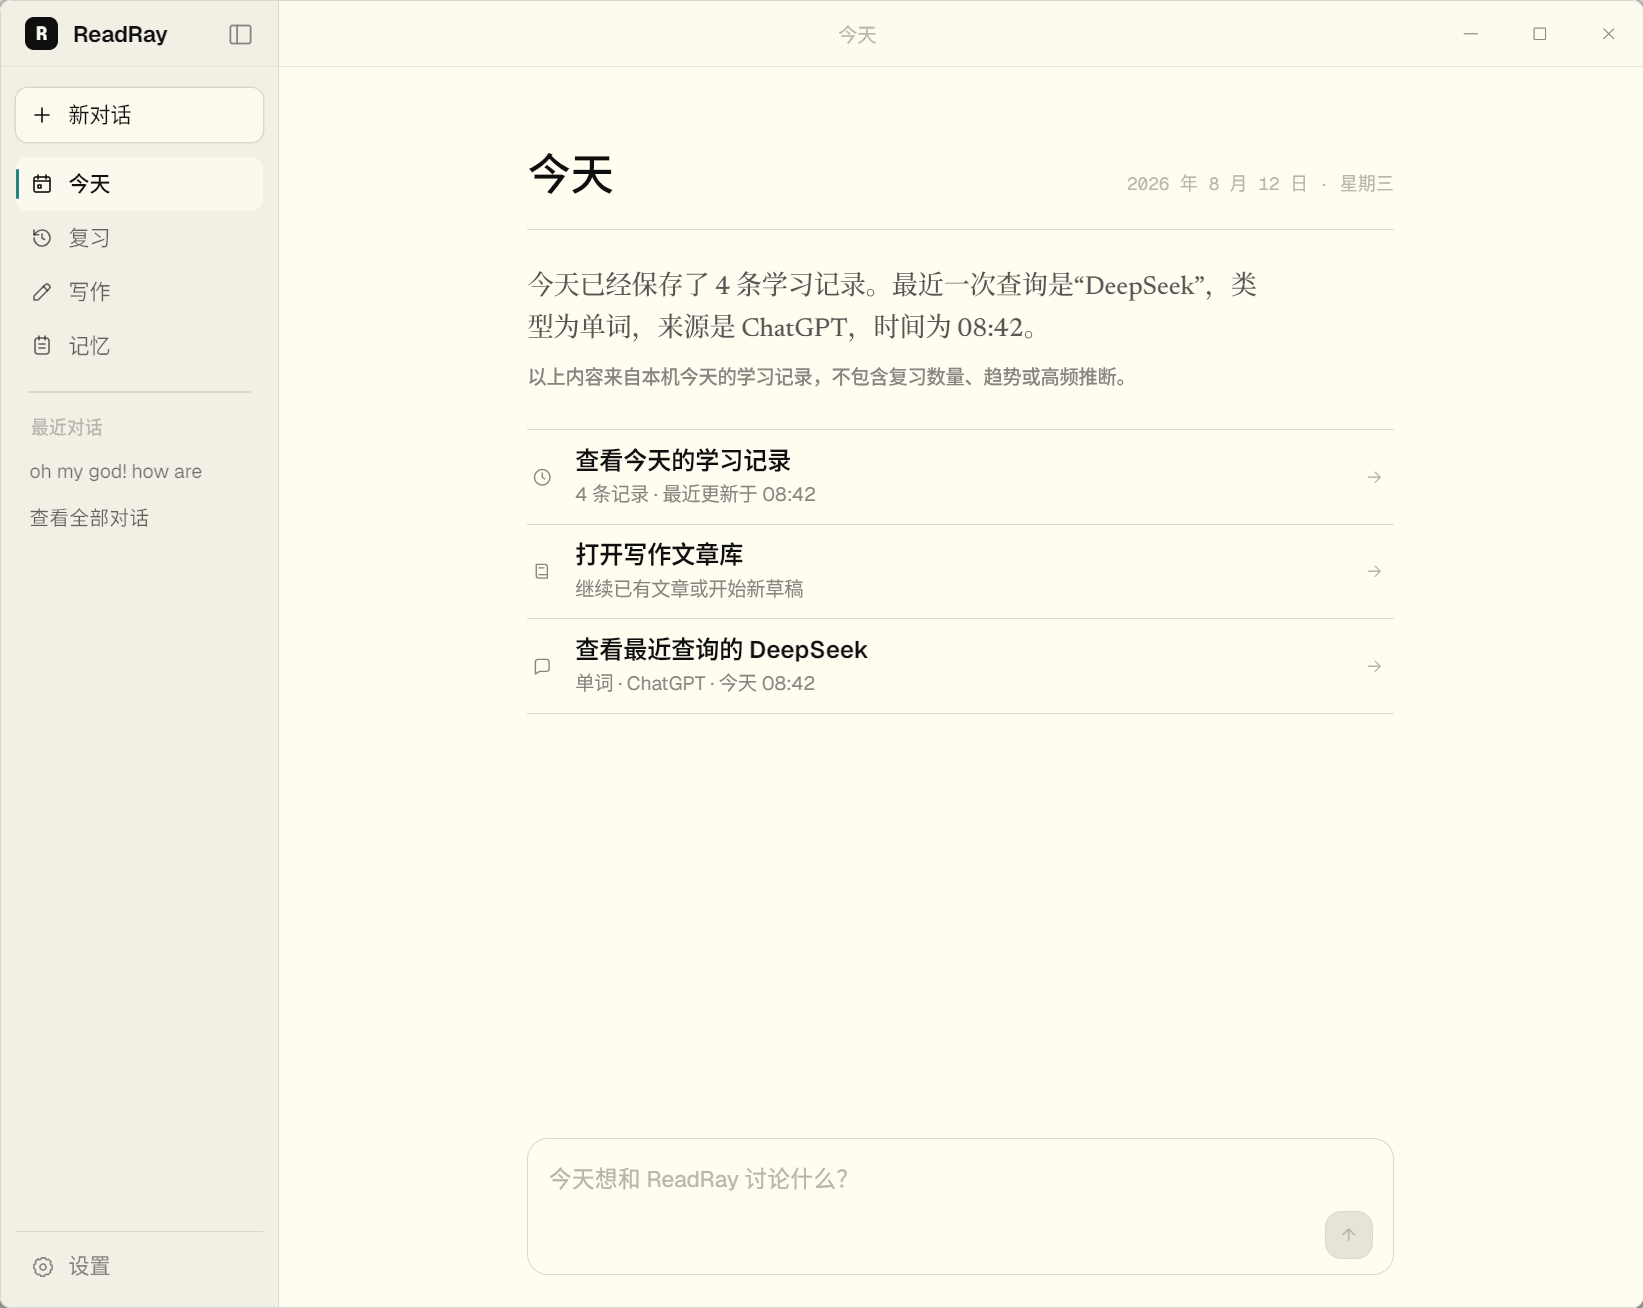
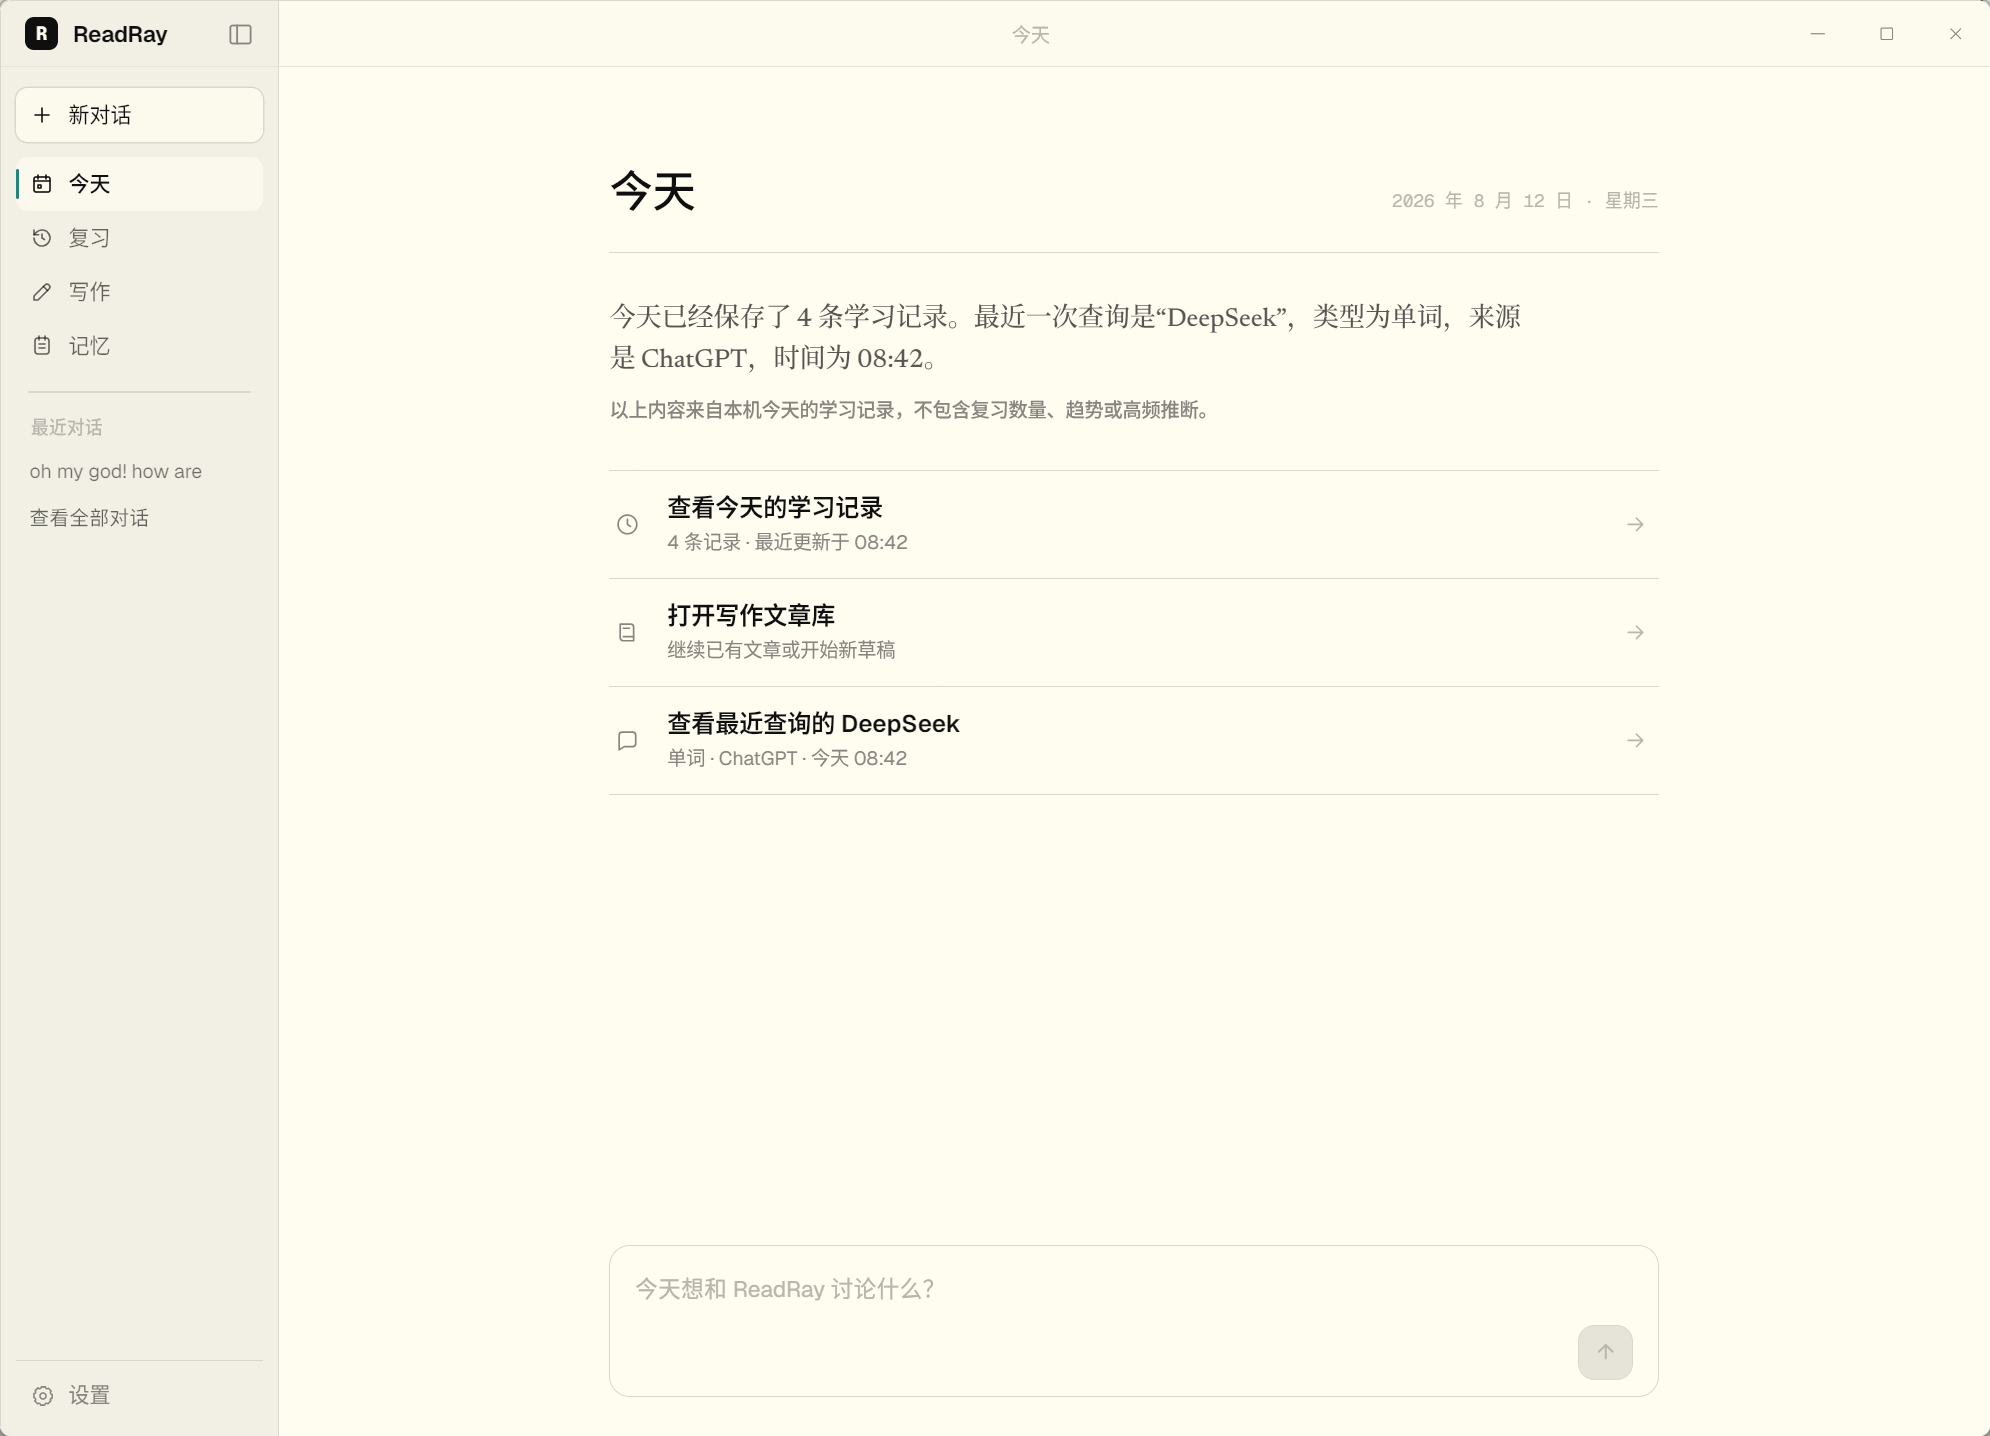
modify readme

diff --git a/README.md b/README.md
@@ -35,8 +35,8 @@ ReadRay 是一个 Windows 优先、本地数据优先的英语学习 Agent。它
 
 <table>
   <tr>
-    <td width="50%" align="center"><img src="assets/readme/selection-paragraph.png" width="600" height="480" alt="段落划词解释"></td>
-    <td width="50%" align="center"><img src="assets/readme/selection-word.png" width="600" height="480" alt="单词划词查询"></td>
+    <td width="50%" align="center"><img src="assets/readme/selection-paragraph.png" width="600" height="468" alt="段落划词解释"></td>
+    <td width="50%" align="center"><img src="assets/readme/selection-word.png" width="600" height="468" alt="单词划词查询"></td>
   </tr>
   <tr>
     <td align="center">在 Obsidian 中解释真实阅读段落</td>
@@ -69,8 +69,8 @@ ReadRay 主应用把查询之后的学习过程连接起来：今天页汇总本
 
 <table>
   <tr>
-    <td width="50%" align="center"><img src="assets/readme/today.png" width="600" height="480" alt="ReadRay 今天页面"></td>
-    <td width="50%" align="center"><img src="assets/readme/writing.png" width="600" height="480" alt="ReadRay 写作页面与写作辅助侧栏"></td>
+    <td width="50%" align="center"><img src="assets/readme/today.png" width="600" height="433" alt="ReadRay 今天页面"></td>
+    <td width="50%" align="center"><img src="assets/readme/writing.png" width="600" height="433" alt="ReadRay 写作页面与写作辅助侧栏"></td>
   </tr>
   <tr>
     <td align="center"><strong>今天</strong>：查看当天学习概况并快速返回最近内容</td>
